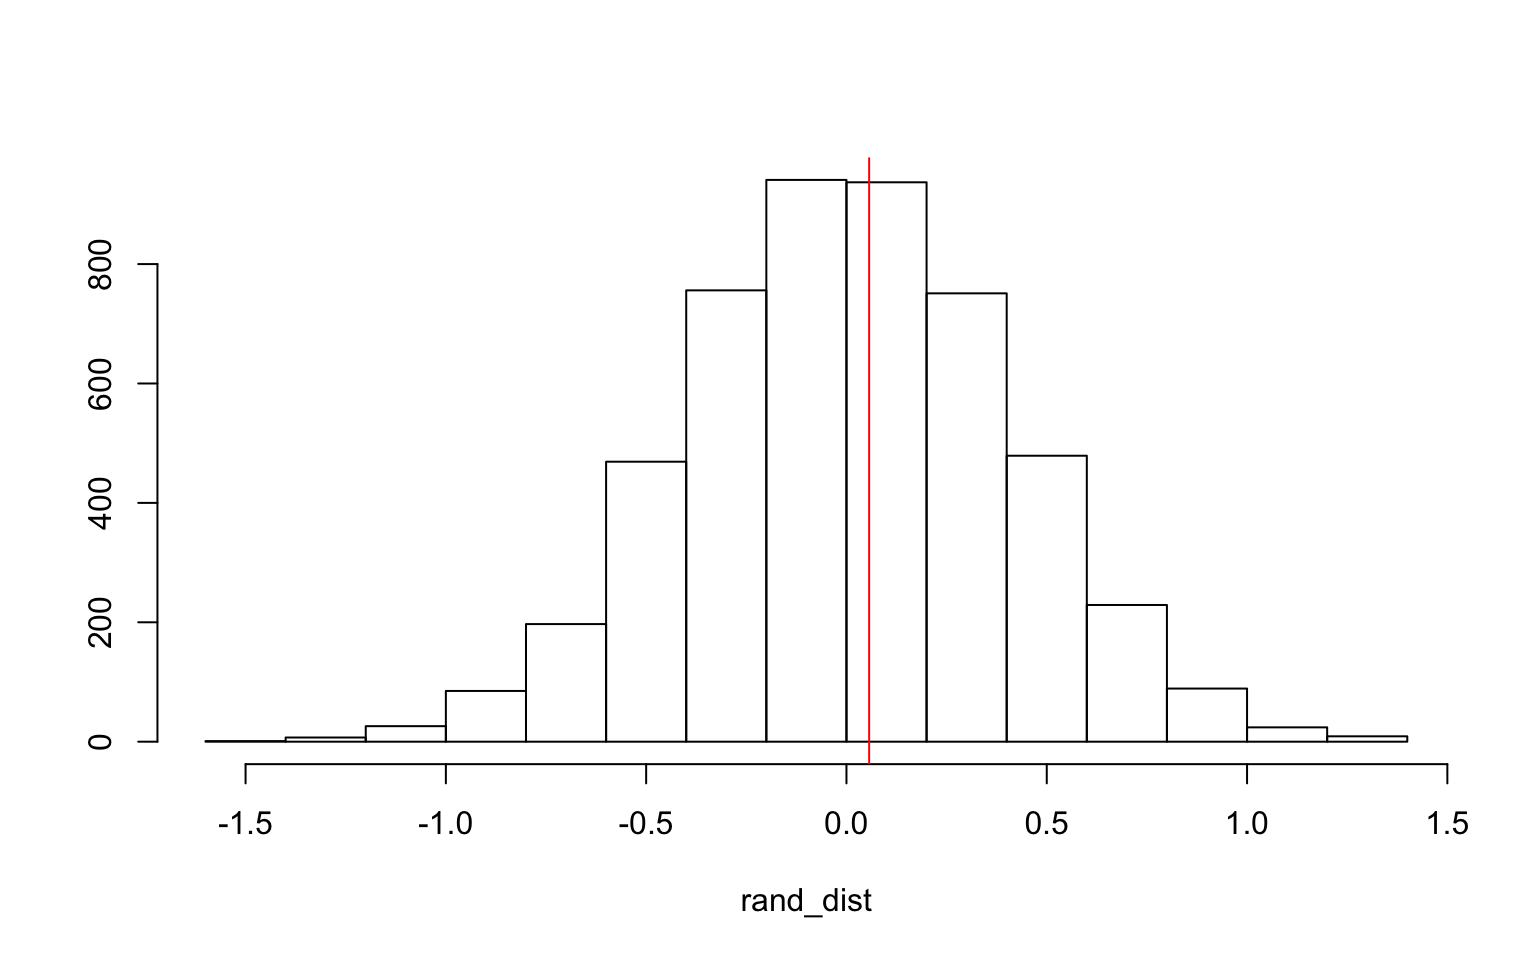
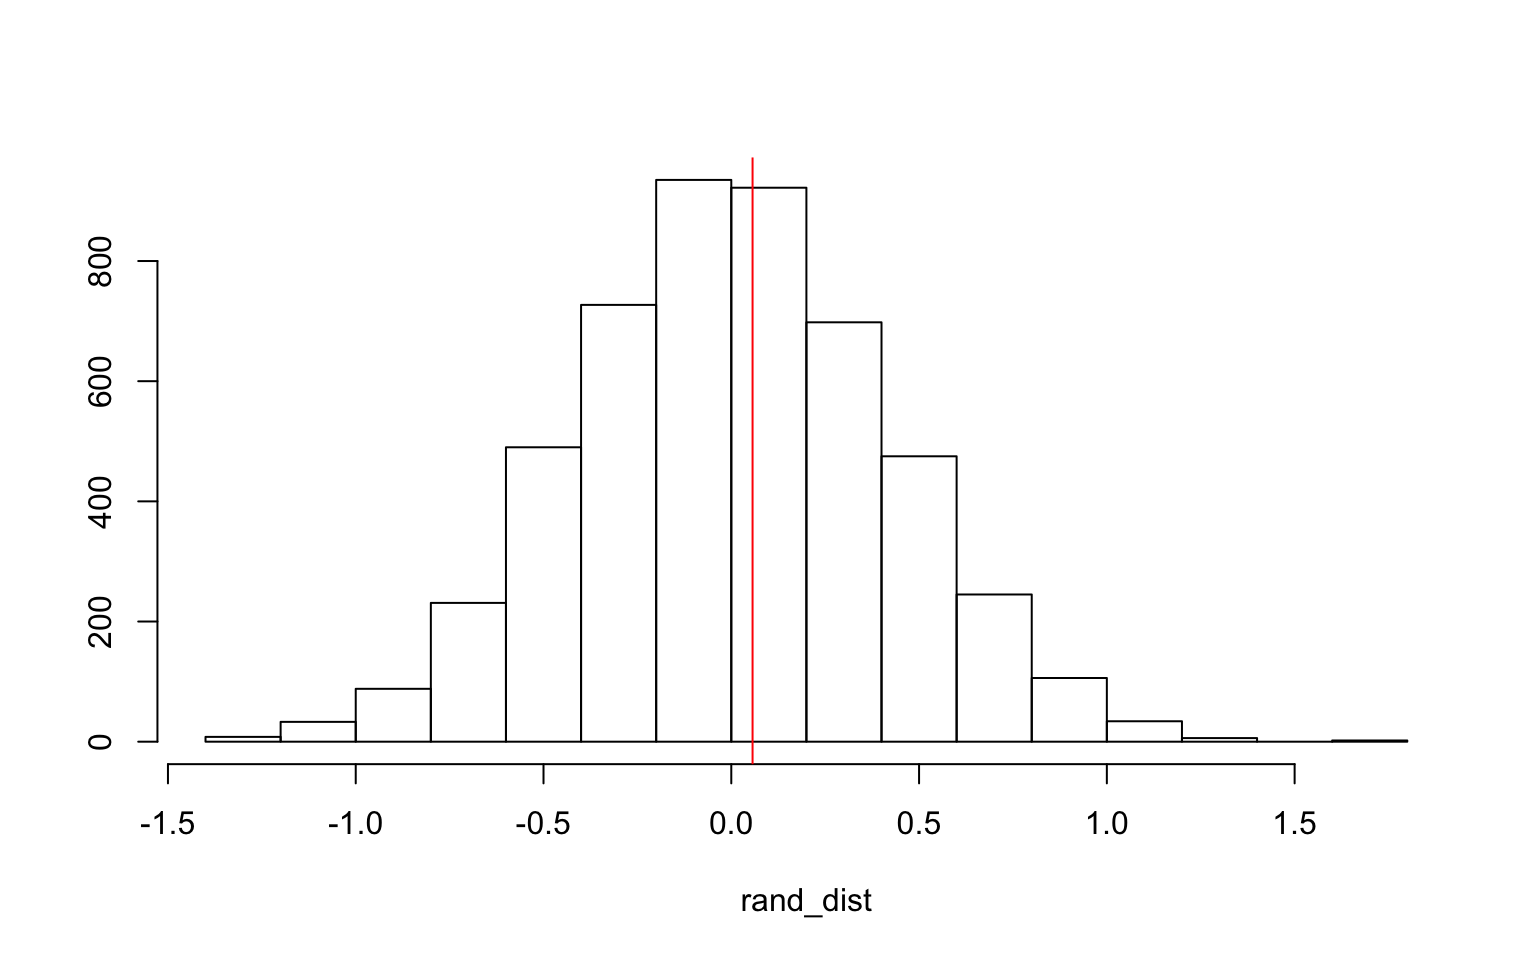
test

diff --git a/content/Project2.html b/content/Project2.html
@@ -27,7 +27,7 @@ library(dplyr)
 data&lt;-read.csv(&quot;insurance 2.csv&quot;)
 data&lt;-data%&gt;%na.omit</code></pre>
 <ul>
-<li>**1. *</li>
+<li>**1. MANOVA Test*</li>
 </ul>
 <pre class="r"><code>#MANOVA
 man1&lt;-manova(cbind(bmi,charges)~region, data=data)
@@ -113,7 +113,7 @@ for(i in 1:3){print(covmats$covs[i])}</code></pre>
 ## charges 12940.97080 195191595.78</code></pre>
 <p><em>1 MANOVA, 2 ANOVAS, and 12 t tests were conducted for a total of 15 tests. The adjusted alpha level is 0.05/15 = 0.333. The MANOVA test and both ANOVA tests showed a significant difference in mean bmi and mean charges between regions. The results of t tests showed that with an adjusted alpha level, Southeast and Northeast, Northwest and Southeast, Southwest and Northeast, Southwest and Northwest, and Southwest and Southeast show a significant difference in mean bmi. The results of t tests showed that with an adjusted alpha level, Norhwest and Southeast, and Southwest and Southeast show a significant difference in mean charge. The probability of a type one error is 0.5367088. The assumptions are not likely to have been met because the even though plots look normally distributed, the covariance shows no homogeneity.</em></p>
 <ul>
-<li>**2. *</li>
+<li>**2.Randomization Test *</li>
 </ul>
 <pre class="r"><code>dataA&lt;-data%&gt;%dplyr::select(smoker, bmi)
 
@@ -129,11 +129,11 @@ rand_dist[i]&lt;-mean(yeet[yeet$smoker==&quot;yes&quot;,]$bmi)-
  mean(yeet[yeet$smoker==&quot;no&quot;,]$bmi)}
 
 mean(rand_dist&gt;0.05665379   )*2</code></pre>
-<pre><code>## [1] 0.9028</code></pre>
+<pre><code>## [1] 0.8928</code></pre>
 <pre class="r"><code>{hist(rand_dist,main=&quot;&quot;, ylab=&quot;&quot;); abline(v = 0.05665379    , col = &quot;red&quot;)}</code></pre>
 <p><img src="/Project2_files/figure-html/unnamed-chunk-3-1.png" width="768" style="display: block; margin: auto;" /> <em>The null hypothesis is that the mean bmi is the same for being a smoker and non-smoker. The alternative hypothesis is that the mean bmi is different for smokers and non-smokers.The p-value was 0.9144 which is greater than 0.05, which means we fail to reject the null hypothesis. This means that there is sufficient evidence to say that the mean bmi is the same for smoker and non-smokers.</em></p>
 <ul>
-<li>**3. *</li>
+<li>**3.Linear Regression Model *</li>
 </ul>
 <pre class="r"><code>#Center Means
 data$bmi_c&lt;-data$bmi-mean(data$bmi)
@@ -241,7 +241,7 @@ freedom
 ## F-statistic: 14.6 on 4 and 1333 DF, p-value: 1.124e-11</code></pre>
 <p><em>The coefficient estimate of the intercept is 14060.83 which indicates the amount charged when bmi and located in the northeast. The coefficient of bmi_c is 439.26 when all other variables are controlled.This means that if there is 1 unit increase in bmi would then increase amount charged from insurance by 439.26 dollars. The coefficient of regionnorthwest is -1072.01, which means that for 1 increase in bmi it would decrease amount charged by 1072.26 dollars. The coefficient of regionsoutheast is -155.85, which means that for 1 increase in bmi, it would decrease amount charged by 155.85 dollars. The coefficient of regionsouthwest is -1683.67, which means that for 1 increase in bmi, it would decrease the amount charged by 1683.67 dollars. The coefficient of bmi_c:regionnorthwest is -48.96 which means that for 1 increase in bmi, the slope of regionnorthwest decreases by 48.96. The coefficient of bmi_c:regionsoutheast is -130.85, which means that for 1 increase in bmi, the slope of regionsoutheast decreases by 130.85. The coefficient of bmi_c:southwest is 13.39 which means that for 1 increase in bmi, the slope of regionsouthwest is increased by 13.39. The interaction plot shows the lines to be parallel; thus, there is no significant interaction. Looking at the ggplot, the homoskedasticity and linearity is not that great. The p-value from the bptest is 2.2x10^-16 which is less than 0.05; thus the homoskedasticity is not met. Based on the graphs, normality looks ok. The Shapiro-Wilk normality test gives a p-value of less than 0.05 which means our distribution is normal. Comparing the uncorrected SE and the robust SEs, the standard errors increased for the intercept, bmi_c, regionnorthwest, regionnsoutheast, regionsouthwest. This means that as the standard errors increased, then the p-values also increased. The model explains 0.04284 of the variation of the outcome.</em></p>
 <ul>
-<li>**4.*</li>
+<li>**4.Linear Regression Model (with Interactions)*</li>
 </ul>
 <pre class="r"><code>samp_distn&lt;-replicate(5000, {
  boot_dat&lt;-data[sample(nrow(data),replace=TRUE),]
@@ -251,12 +251,12 @@ freedom
 samp_distn%&gt;%t%&gt;%as.data.frame%&gt;%summarize_all(sd)</code></pre>
 <pre><code>## (Intercept) bmi_c regionnorthwest regionsoutheast
 regionsouthwest bmi_c:regionnorthwest
-## 1 713.9327 109.4091 999.4348 963.0441 950.7329 166.8187
+## 1 718.7764 110.0578 1015.468 975.988 954.461 169.0851
 ## bmi_c:regionsoutheast bmi_c:regionsouthwest
-## 1 159.2829 154.4963</code></pre>
+## 1 160.893 152.1001</code></pre>
 <p><em>Bootstrapped standard errors are greater than original standard errors but less than robust SEs.</em></p>
 <ul>
-<li>**5.*</li>
+<li>**5.Logistic Regression*</li>
 </ul>
 <pre class="r"><code>#logistic regression
 data1&lt;-data%&gt;%mutate(smoker=ifelse(data$smoker==&quot;yes&quot;,1,0))
@@ -362,7 +362,7 @@ apply(diags,2,mean)</code></pre>
 ## 0.9319661 0.8097611 0.9643649 0.8593115 0.9820508</code></pre>
 <p><em>For 0 bmi and 0 charge, the odds of being a smoker is 2.6206461. Controlling for bmi, for every 1 unit increase in charges, the odds of being a smoker changes by a factor of 1.0003193. Controlling for charges, for every 1 unit increase in bmi, the odds of being a smoker changes by a factor of 0.7534329. The accuracy is 0.9334828. The sensitivity is 0.8627451. The specificity is 0.9671053. The PPV is 0.8029197. The AUC is 0.9823229, which means that this model is very good at predicting activity. After doing 10-fold CV, the accuracy is 0.9312816, the sensitivity is 0.7948521, the specificity is 0.9663455, the PPV is 0.8569134, and the AUC increased slightly to 0.9824689. There was not much overfitting be4cause there wasn’t a big change.</em></p>
 <ul>
-<li>**6. *</li>
+<li>**6.LASSO Regression*</li>
 </ul>
 <pre class="r"><code>library(glmnet)
 y&lt;-as.matrix(data$smoker)

diff --git a/public/project2/index.html b/public/project2/index.html
@@ -85,7 +85,7 @@ library(dplyr)
 data&lt;-read.csv(&quot;insurance 2.csv&quot;)
 data&lt;-data%&gt;%na.omit</code></pre>
 <ul>
-<li>**1. *</li>
+<li>**1. MANOVA Test*</li>
 </ul>
 <pre class="r"><code>#MANOVA
 man1&lt;-manova(cbind(bmi,charges)~region, data=data)
@@ -171,7 +171,7 @@ for(i in 1:3){print(covmats$covs[i])}</code></pre>
 ## charges 12940.97080 195191595.78</code></pre>
 <p><em>1 MANOVA, 2 ANOVAS, and 12 t tests were conducted for a total of 15 tests. The adjusted alpha level is 0.05/15 = 0.333. The MANOVA test and both ANOVA tests showed a significant difference in mean bmi and mean charges between regions. The results of t tests showed that with an adjusted alpha level, Southeast and Northeast, Northwest and Southeast, Southwest and Northeast, Southwest and Northwest, and Southwest and Southeast show a significant difference in mean bmi. The results of t tests showed that with an adjusted alpha level, Norhwest and Southeast, and Southwest and Southeast show a significant difference in mean charge. The probability of a type one error is 0.5367088. The assumptions are not likely to have been met because the even though plots look normally distributed, the covariance shows no homogeneity.</em></p>
 <ul>
-<li>**2. *</li>
+<li>**2.Randomization Test *</li>
 </ul>
 <pre class="r"><code>dataA&lt;-data%&gt;%dplyr::select(smoker, bmi)
 
@@ -187,11 +187,11 @@ rand_dist[i]&lt;-mean(yeet[yeet$smoker==&quot;yes&quot;,]$bmi)-
  mean(yeet[yeet$smoker==&quot;no&quot;,]$bmi)}
 
 mean(rand_dist&gt;0.05665379   )*2</code></pre>
-<pre><code>## [1] 0.9028</code></pre>
+<pre><code>## [1] 0.8928</code></pre>
 <pre class="r"><code>{hist(rand_dist,main=&quot;&quot;, ylab=&quot;&quot;); abline(v = 0.05665379    , col = &quot;red&quot;)}</code></pre>
 <p><img src="/Project2_files/figure-html/unnamed-chunk-3-1.png" width="768" style="display: block; margin: auto;" /> <em>The null hypothesis is that the mean bmi is the same for being a smoker and non-smoker. The alternative hypothesis is that the mean bmi is different for smokers and non-smokers.The p-value was 0.9144 which is greater than 0.05, which means we fail to reject the null hypothesis. This means that there is sufficient evidence to say that the mean bmi is the same for smoker and non-smokers.</em></p>
 <ul>
-<li>**3. *</li>
+<li>**3.Linear Regression Model *</li>
 </ul>
 <pre class="r"><code>#Center Means
 data$bmi_c&lt;-data$bmi-mean(data$bmi)
@@ -299,7 +299,7 @@ freedom
 ## F-statistic: 14.6 on 4 and 1333 DF, p-value: 1.124e-11</code></pre>
 <p><em>The coefficient estimate of the intercept is 14060.83 which indicates the amount charged when bmi and located in the northeast. The coefficient of bmi_c is 439.26 when all other variables are controlled.This means that if there is 1 unit increase in bmi would then increase amount charged from insurance by 439.26 dollars. The coefficient of regionnorthwest is -1072.01, which means that for 1 increase in bmi it would decrease amount charged by 1072.26 dollars. The coefficient of regionsoutheast is -155.85, which means that for 1 increase in bmi, it would decrease amount charged by 155.85 dollars. The coefficient of regionsouthwest is -1683.67, which means that for 1 increase in bmi, it would decrease the amount charged by 1683.67 dollars. The coefficient of bmi_c:regionnorthwest is -48.96 which means that for 1 increase in bmi, the slope of regionnorthwest decreases by 48.96. The coefficient of bmi_c:regionsoutheast is -130.85, which means that for 1 increase in bmi, the slope of regionsoutheast decreases by 130.85. The coefficient of bmi_c:southwest is 13.39 which means that for 1 increase in bmi, the slope of regionsouthwest is increased by 13.39. The interaction plot shows the lines to be parallel; thus, there is no significant interaction. Looking at the ggplot, the homoskedasticity and linearity is not that great. The p-value from the bptest is 2.2x10^-16 which is less than 0.05; thus the homoskedasticity is not met. Based on the graphs, normality looks ok. The Shapiro-Wilk normality test gives a p-value of less than 0.05 which means our distribution is normal. Comparing the uncorrected SE and the robust SEs, the standard errors increased for the intercept, bmi_c, regionnorthwest, regionnsoutheast, regionsouthwest. This means that as the standard errors increased, then the p-values also increased. The model explains 0.04284 of the variation of the outcome.</em></p>
 <ul>
-<li>**4.*</li>
+<li>**4.Linear Regression Model (with Interactions)*</li>
 </ul>
 <pre class="r"><code>samp_distn&lt;-replicate(5000, {
  boot_dat&lt;-data[sample(nrow(data),replace=TRUE),]
@@ -309,12 +309,12 @@ freedom
 samp_distn%&gt;%t%&gt;%as.data.frame%&gt;%summarize_all(sd)</code></pre>
 <pre><code>## (Intercept) bmi_c regionnorthwest regionsoutheast
 regionsouthwest bmi_c:regionnorthwest
-## 1 713.9327 109.4091 999.4348 963.0441 950.7329 166.8187
+## 1 718.7764 110.0578 1015.468 975.988 954.461 169.0851
 ## bmi_c:regionsoutheast bmi_c:regionsouthwest
-## 1 159.2829 154.4963</code></pre>
+## 1 160.893 152.1001</code></pre>
 <p><em>Bootstrapped standard errors are greater than original standard errors but less than robust SEs.</em></p>
 <ul>
-<li>**5.*</li>
+<li>**5.Logistic Regression*</li>
 </ul>
 <pre class="r"><code>#logistic regression
 data1&lt;-data%&gt;%mutate(smoker=ifelse(data$smoker==&quot;yes&quot;,1,0))
@@ -420,7 +420,7 @@ apply(diags,2,mean)</code></pre>
 ## 0.9319661 0.8097611 0.9643649 0.8593115 0.9820508</code></pre>
 <p><em>For 0 bmi and 0 charge, the odds of being a smoker is 2.6206461. Controlling for bmi, for every 1 unit increase in charges, the odds of being a smoker changes by a factor of 1.0003193. Controlling for charges, for every 1 unit increase in bmi, the odds of being a smoker changes by a factor of 0.7534329. The accuracy is 0.9334828. The sensitivity is 0.8627451. The specificity is 0.9671053. The PPV is 0.8029197. The AUC is 0.9823229, which means that this model is very good at predicting activity. After doing 10-fold CV, the accuracy is 0.9312816, the sensitivity is 0.7948521, the specificity is 0.9663455, the PPV is 0.8569134, and the AUC increased slightly to 0.9824689. There was not much overfitting be4cause there wasn’t a big change.</em></p>
 <ul>
-<li>**6. *</li>
+<li>**6.LASSO Regression*</li>
 </ul>
 <pre class="r"><code>library(glmnet)
 y&lt;-as.matrix(data$smoker)
